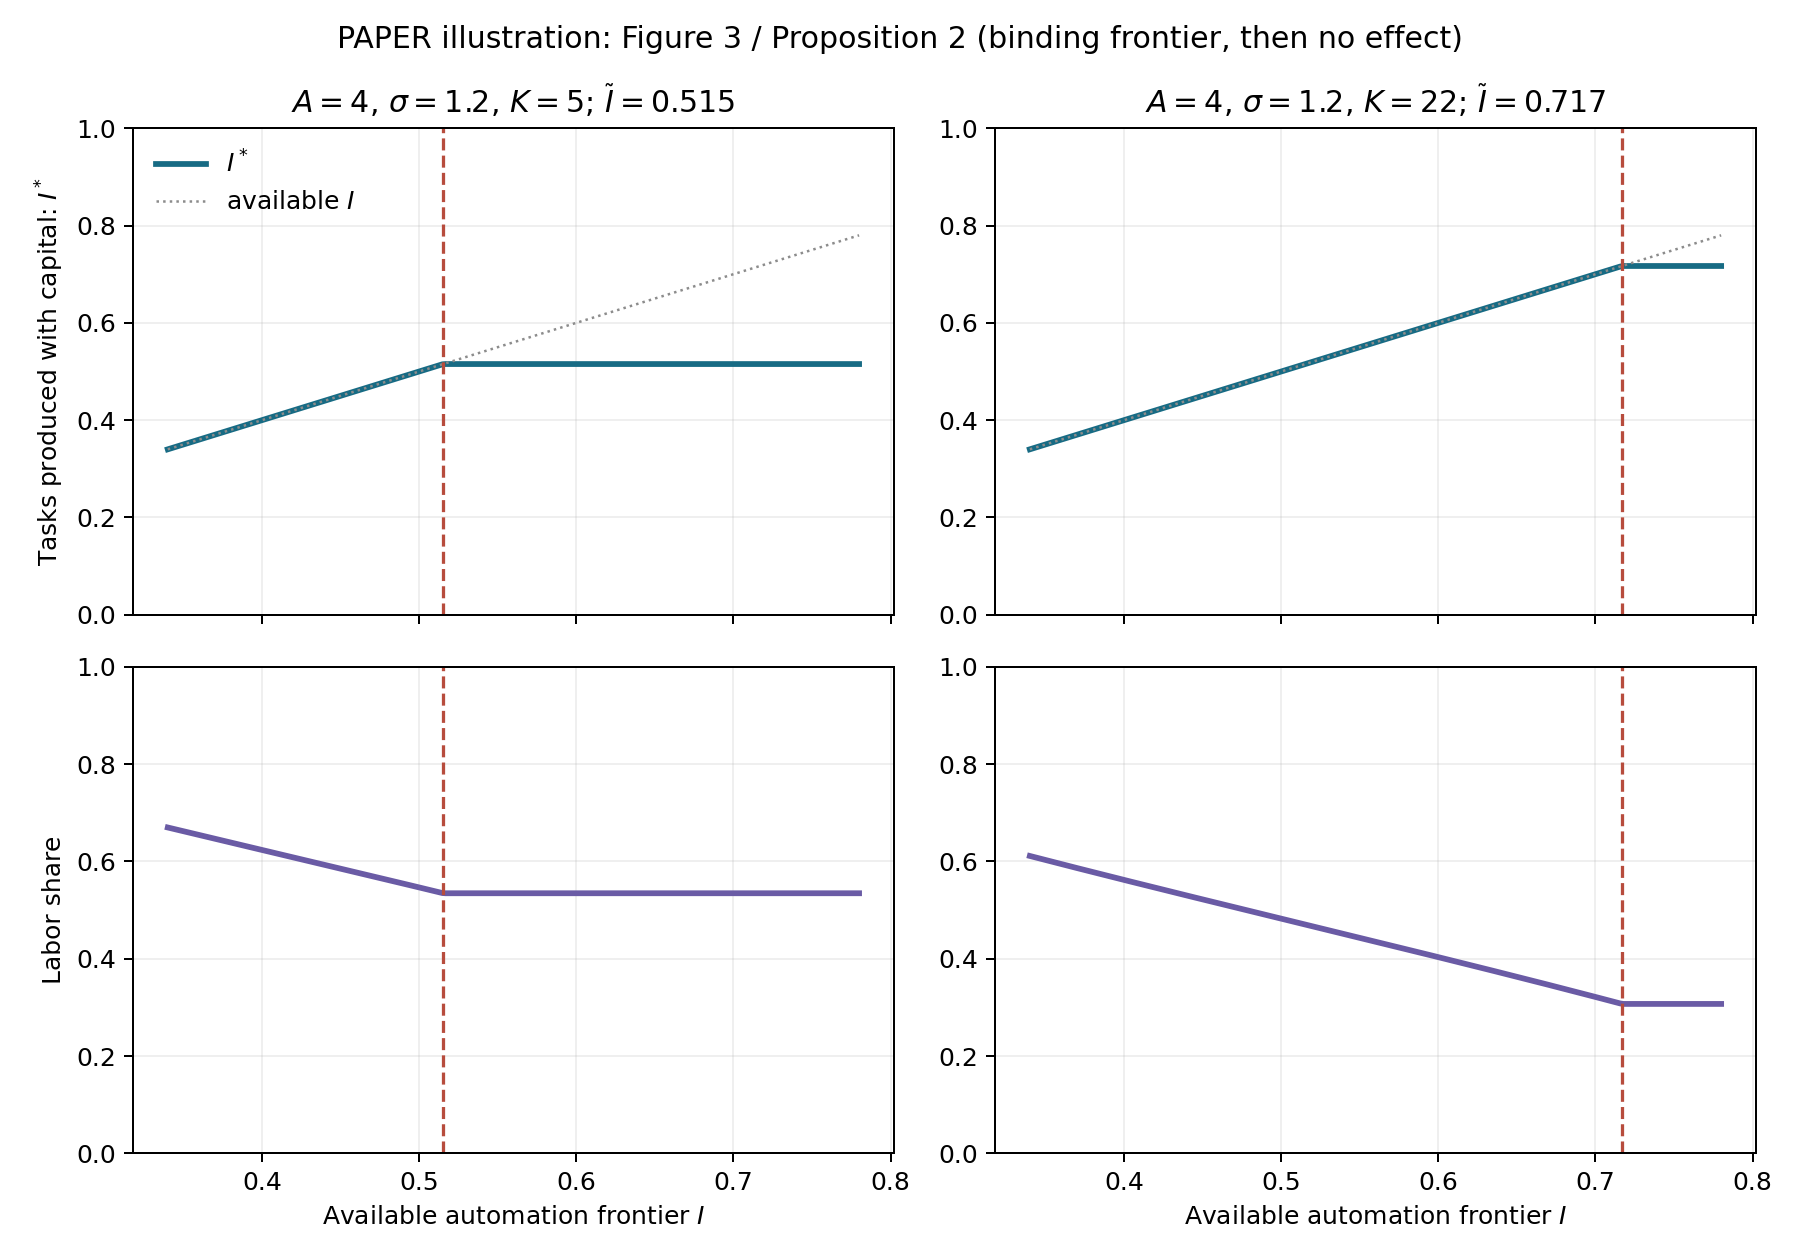
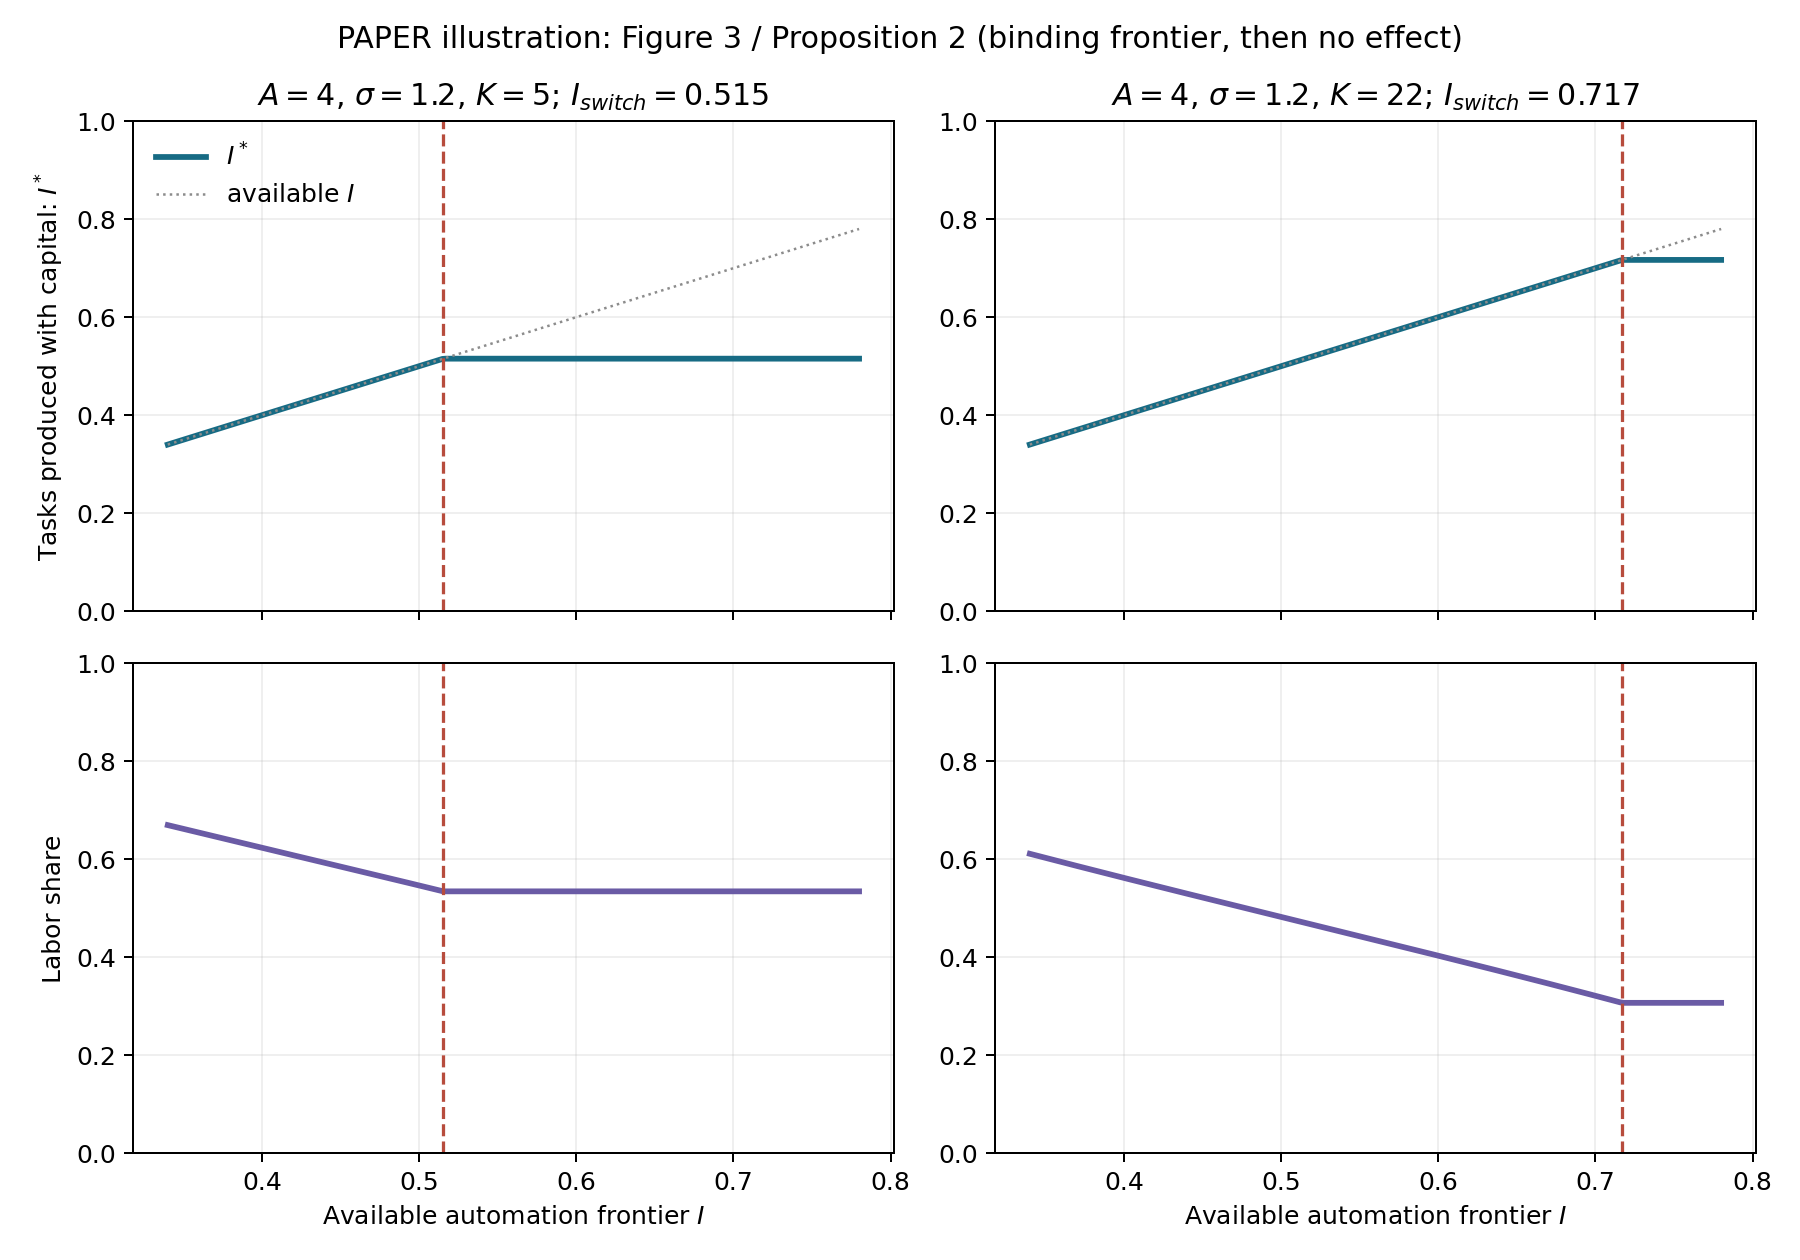
Distinguish current cost index from regime switch

diff --git a/sim.py b/sim.py
@@ -60,7 +60,7 @@ class Economy:
                 "share": share, "ratio": W / R, "J": j}
 
     def equal_cost_threshold(self, K: float) -> float:
-        """The unique x with W/R=gamma(x), before imposing I."""
+        """Frontier value where the constrained and free regimes meet."""
         def gap(x: float) -> float:
             q = self.at_allocation(x, K)
             return math.log(q["ratio"]) - self.A * x
@@ -68,10 +68,12 @@ class Economy:
         return brentq(gap, 1e-5, 1 - 1e-5, xtol=1e-12)
 
     def equilibrium(self, I: float, K: float) -> dict[str, float]:
-        tilde = self.equal_cost_threshold(K)
-        q = self.at_allocation(min(I, tilde), K)
+        switch_I = self.equal_cost_threshold(K)
+        q = self.at_allocation(min(I, switch_I), K)
         q["I"] = I
-        q["I_tilde"] = tilde
+        q["I_switch"] = switch_I
+        # Cost-equality index at *current* equilibrium factor prices.
+        q["I_tilde"] = math.log(q["ratio"]) / self.A
         return q
 
     def proposition3_terms(self, I: float, K: float) -> dict[str, float]:
@@ -96,15 +98,15 @@ def allocation_figure() -> None:
     fig, axes = plt.subplots(2, 2, figsize=(10, 7), sharex="col")
     for col, (economy, K) in enumerate(cases):
         data = [economy.equilibrium(float(I), K) for I in grid]
-        tilde = data[0]["I_tilde"]
+        switch_I = data[0]["I_switch"]
         actual = np.array([q["x"] for q in data])
         share = np.array([q["share"] for q in data])
         axes[0, col].plot(grid, actual, color="#176B84", lw=2.3, label="$I^*$")
         axes[0, col].plot(grid, grid, color="0.55", lw=1, ls=":", label="available $I$")
-        axes[0, col].axvline(tilde, color="#B74C3D", ls="--", lw=1.3)
-        axes[0, col].set_title(f"$A=4$, $\\sigma=1.2$, $K={K:g}$; $\\widetilde I={tilde:.3f}$")
+        axes[0, col].axvline(switch_I, color="#B74C3D", ls="--", lw=1.3)
+        axes[0, col].set_title(f"$A=4$, $\\sigma=1.2$, $K={K:g}$; $I_{{switch}}={switch_I:.3f}$")
         axes[1, col].plot(grid, share, color="#6A5BA5", lw=2.3)
-        axes[1, col].axvline(tilde, color="#B74C3D", ls="--", lw=1.3)
+        axes[1, col].axvline(switch_I, color="#B74C3D", ls="--", lw=1.3)
         axes[1, col].set_xlabel("Available automation frontier $I$")
         axes[1, col].set_ylim(0, 1)
         axes[0, col].set_ylim(0, 1)
@@ -186,10 +188,11 @@ def verify_equations() -> None:
     numeric = (math.log(eco.equilibrium(I + h, K)["W"])
                - math.log(eco.equilibrium(I - h, K)["W"])) / (2 * h)
     assert abs(analytic - numeric) < 2e-6, (analytic, numeric)
-    free_I = min(0.9, q["I_tilde"] + 0.08)
+    free_I = min(0.9, q["I_switch"] + 0.08)
     free = eco.equilibrium(free_I, K)
     free_more = eco.equilibrium(min(0.99, free_I + 0.02), K)
     assert free["x"] == free_more["x"] and free["W"] == free_more["W"]
+    assert abs(free["I_tilde"] - free["x"]) < 1e-10
     print(f"Proposition 3 derivative: formula={analytic:.8f}, finite difference={numeric:.8f}")
     print(f"Figure 3 free regime: W(I={free_I:.3f})=W(I={free_I+0.02:.3f})={free['W']:.8f}")
 
